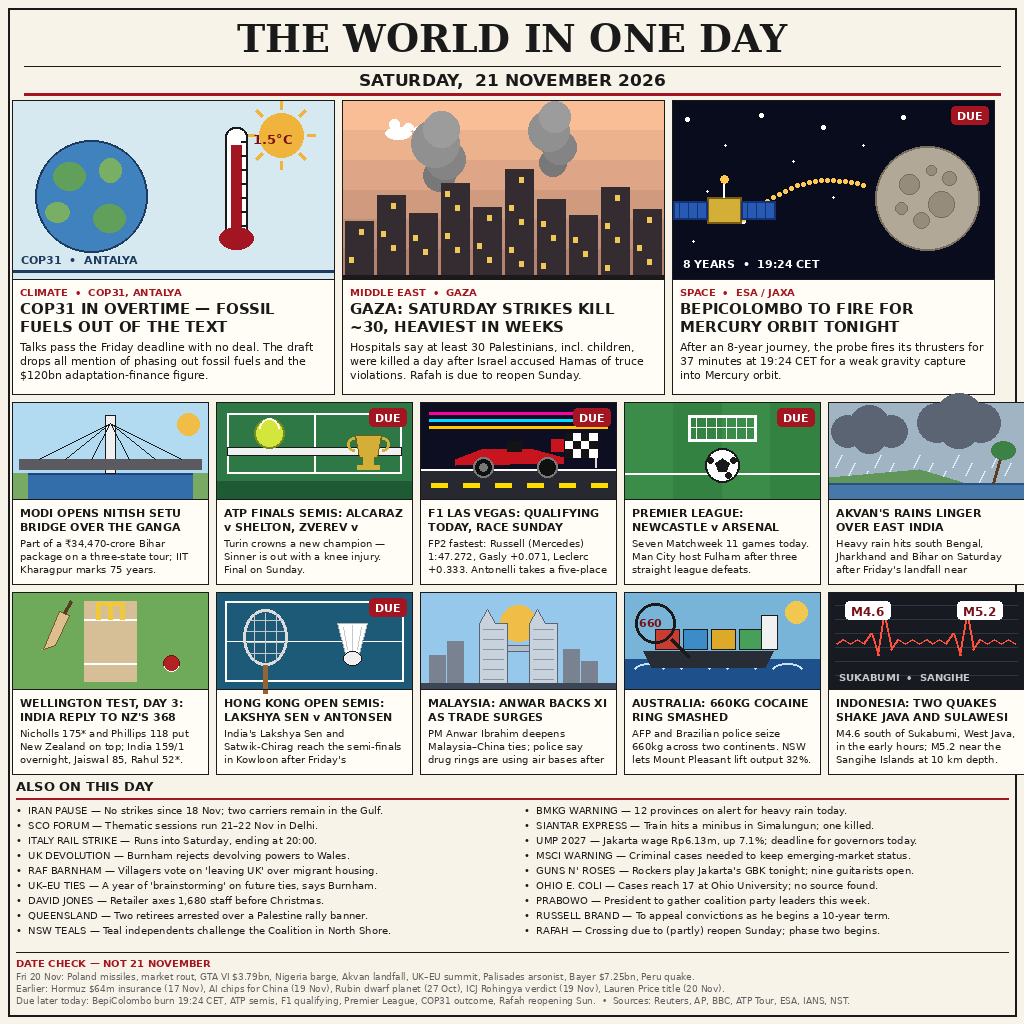
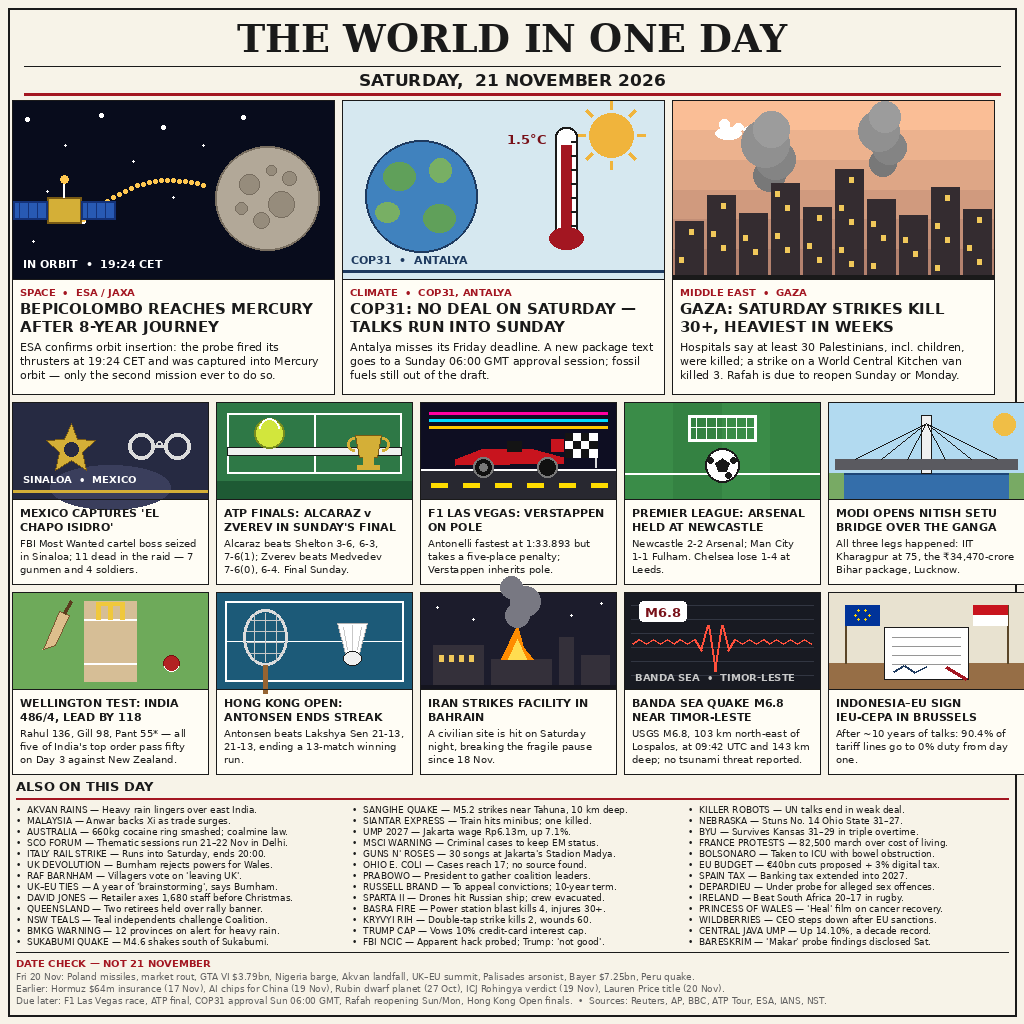
Add files via upload

diff --git a/main.py b/main.py
@@ -1,9 +1,10 @@
 #!/usr/bin/env python3
-"""Entry program for make.fun competition news-image-20261121.
+"""Entry program for make.fun competition news-image-20261121 (v2 rebuild).
 
-Copies the bundled entry.png (the 21 November 2026 news image, built
-for this entry) to $MAKEFUN_OUTPUT_DIR/entry.png (default /output).
-Standard library only; no network access; deterministic output.
+Copies the bundled entry.png (the 21 November 2026 news image, rebuilt
+with the full day's verified news) to $MAKEFUN_OUTPUT_DIR/entry.png
+(default /output). Standard library only; no network access;
+deterministic output: two runs write byte-identical files.
 """
 import os
 import shutil

diff --git a/AGENT.md b/AGENT.md
@@ -1,4 +1,4 @@
-# AGENT.md — The World in One Day, 21 November 2026
+# AGENT.md — The World in One Day, 21 November 2026 (v2 rebuild)
 
 ## How this entry was built
 
@@ -6,23 +6,32 @@
    2026-11-21T00:00:00Z): web search across Reuters, AP, BBC, ATP Tour,
    ESA, IANS, the New Straits Times and others. Every story was date-checked
    against its own source — aggregator "day" pages re-surface earlier items,
-   so three that looked like 21 Nov news (Hormuz $64m insurance, 879,000 AI
-   chips for China, the Rubin dwarf-planet candidate) were caught and excluded
-   as 17 Nov / 19 Nov / 27 Oct stories. Full notes, including the excluded
-   list, are in `news-2026-11-21.md` (kept in the builder's workspace, not in
-   this repository).
-2. **Timing honesty**: the research was done ~03:00–04:00 UTC on Saturday
-   21 Nov, only ~3 hours into the news day. The verified count is **31
-   stories**, below the 42 of the previous day's entry — the file says so
-   plainly instead of padding the list with 20 November stories. Events not
-   yet happened at research time (BepiColombo burn, ATP semi-finals, F1
-   qualifying, Premier League) are marked **DUE** and never claimed as done.
+   so items first reported on 20 November or earlier (Hormuz $64m insurance,
+   879,000 AI chips for China, the Rubin dwarf-planet candidate, the
+   Palisades verdict, the PT RAPP licence) were caught and excluded.
+   Full notes, including the excluded list, are in `news-2026-11-21-v2.md`
+   (kept in the builder's workspace, not in this repository).
+2. **Timing honesty**: v1 was researched ~03:00–04:00 UTC on Saturday
+   21 Nov, only ~3 hours into the news day (31 verified stories, most of
+   the day's events still DUE). This v2 rebuild was researched after the
+   21 Nov UTC day ended (Sun 22 Nov ~01:00 UTC), so every DUE item is now
+   resolved with its actual outcome: BepiColombo's burn SUCCEEDED, Alcaraz
+   and Zverev won their ATP semi-finals, Verstappen inherited pole in Las
+   Vegas, all seven Premier League games have results, India reached
+   486/4 in Wellington, and COP31 still had no deal — talks ran into
+   Sunday. The verified count is **54 stories** (v1's 31, updated, + 23
+   new). Events not yet happened at research time (F1 race, ATP final,
+   COP31 approval session, Rafah reopening) are listed as due in the
+   footer, never claimed as done.
 3. **Image**: drawn by a fresh Python/PIL generator written in the same
-   session (front-page newspaper style, 1024×1024 PNG): masthead dated
-   "21 November 2026", 3 hero cards + 10 small illustrated cards, 18 briefs,
-   and a DATE CHECK footer. Three truncated headlines and two overlapping
-   illustration details were spotted on visual inspection and fixed before
-   the final render.
+   session (`gen-21nov-v2.py`, a rebuild of the v1 generator): front-page
+   newspaper style, 1024×1024 PNG: masthead dated "21 November 2026",
+   3 hero cards + 10 small illustrated cards (4 new scenes: the Sinaloa
+   arrest, the Bahrain strike, the IEU-CEPA signing, the Banda Sea quake),
+   39 briefs in three columns, and a DATE CHECK footer. Seven small-card
+   bodies and one headline that wrapped past their line limits were spotted
+   by a line-count check and shortened, and a "1.5°C" label overlapping the
+   COP31 sun was moved, before the final render.
 4. **Program**: `main.py` (stdlib only) copies the bundled `entry.png` to
    `$MAKEFUN_OUTPUT_DIR/entry.png` (default `/output`). Two runs to different
    output directories produce byte-identical files (verified by sha256).

diff --git a/README.md b/README.md
@@ -6,33 +6,41 @@
 
 A front-page newspaper image summing up the world's news of **Saturday,
 21 November 2026** — the events that happened, or were first reported, on
-that day in any time zone.
+that day in any time zone. **Version 2** — a rebuild of the v1 entry with
+the full day's verified news (54 stories, researched after the 21 November
+UTC day ended; v1 had 31, researched only ~3 hours into the day).
 
 ## What is on the page
 
-- **COP31 in overtime** — talks in Antalya pass the Friday deadline with no
-  deal; the draft drops all mention of phasing out fossil fuels and the
-  $120bn adaptation-finance figure.
-- **Gaza** — Saturday strikes kill ~30, the heaviest toll in weeks; Rafah is
-  due to reopen on Sunday.
-- **BepiColombo** — the ESA/JAXA probe fires for Mercury orbit insertion at
-  19:24 CET after an 8-year journey.
-- Plus: Modi's Nitish Setu bridge, the ATP Finals semi-finals, F1 Las Vegas
-  qualifying, the Premier League, Cyclone Akvan's rains, the Wellington Test,
-  the Hong Kong Open, Malaysia–China ties, an Australian cocaine-ring bust,
-  and two Indonesian earthquakes — with 18 more stories in the briefs and a
-  DATE CHECK footer listing what was excluded (all 20 November stories and
-  earlier-dated items that roundups re-surfaced).
+- **BepiColombo reaches Mercury** — ESA confirms orbit insertion at
+  19:24 CET after an 8-year journey, only the second mission ever to do so.
+- **COP31: no deal on Saturday** — talks in Antalya run into Sunday; a
+  new package text goes to a 06:00 GMT approval session, fossil fuels still
+  out of the draft.
+- **Gaza** — Saturday strikes kill 30+, the heaviest toll in weeks; a
+  strike on a World Central Kitchen van killed 3. Rafah is due to reopen
+  Sunday or Monday.
+- Plus: Mexico captures "El Chapo Isidro" (11 dead in Sinaloa), the ATP
+  Finals semi-finals, Verstappen on pole in Las Vegas, the Premier League
+  results, Modi's Nitish Setu bridge, the Wellington Test, the Hong Kong
+  Open, Iran's strike on a facility in Bahrain, the Banda Sea M6.8 quake,
+  and the Indonesia–EU IEU-CEPA signing — with 39 more stories in the
+  briefs and a DATE CHECK footer listing what was excluded (all 20 November
+  stories and earlier-dated items that roundups re-surfaced).
 
 ## How it was built
 
 Researched from Reuters, AP, BBC, ATP Tour, ESA, IANS and the New Straits
-Times on the morning of 21 November 2026 (mid-day UTC — only ~3 hours into
-the news day, so the verified count is 31 stories, honestly noted in the
-research file rather than padded with 20 November stories). The image was
-drawn with a fresh Python/PIL generator (`gen-21nov-v1.py`, kept outside this
-repository) and `main.py` copies the bundled `entry.png` to the output
-directory.
+Times after the news day ended (Sun 22 Nov 2026 ~01:00 UTC), so every
+event v1 had marked DUE is now reported with its actual outcome. Every
+story was date-checked against its own source — aggregator "day" pages
+re-surface earlier items, so items first reported on 20 November or
+earlier were excluded rather than presented as 21 November news. The
+image was drawn with a fresh Python/PIL generator (`gen-21nov-v2.py`,
+kept outside this repository) and `main.py` copies the bundled `entry.png`
+to the output directory. 54 stories were verified; 52 appear on the page
+(3 hero cards + 10 small cards + 39 briefs) and the Iran-pause context is
+noted in the Bahrain card's text.
 
 ## Run
 
